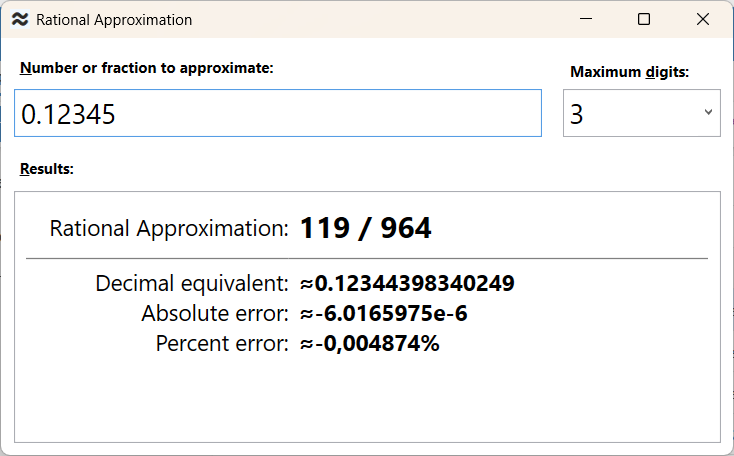
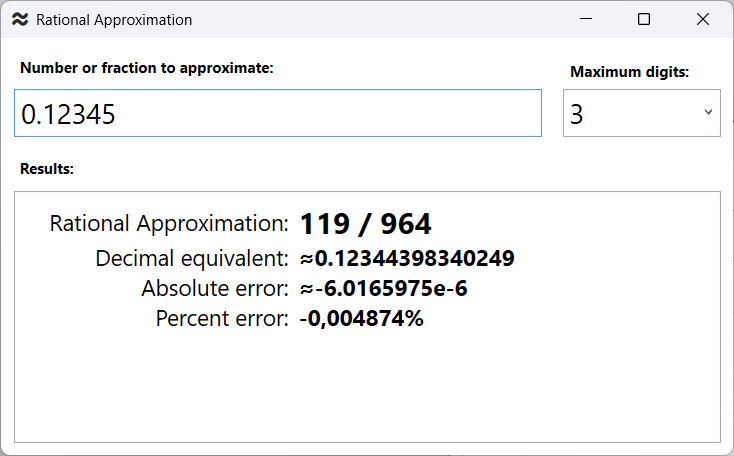
Review.

diff --git a/RationalApproximation/RationalApproximation/MainWindow.xaml b/RationalApproximation/RationalApproximation/MainWindow.xaml
@@ -5,7 +5,7 @@
         xmlns:mc="http://schemas.openxmlformats.org/markup-compatibility/2006"
         xmlns:local="clr-namespace:RationalApproximation"
         mc:Ignorable="d"
-        Title="Rational Approximation" Width="600" Height="371"  
+        Title="Rational Approximation" Width="600" Height="371" d:Width="600" d:Height="371"    
         SourceInitialized="Window_SourceInitialized"
         Loaded="Window_Loaded" 
         Closing="Window_Closing" Icon="/RationalApproximation.ico" 
@@ -13,7 +13,7 @@
     <Grid>
 
         <Label VerticalAlignment="Top" Margin="10,10,0,0" Content="_Number or fraction to approximate:" Target="{Binding ElementName=textBoxInput}" FontWeight="Bold" HorizontalAlignment="Left" />
-        <TextBox x:Name="textBoxInput" VerticalAlignment="Top" Margin="10,41,153,0" Text="" TextChanged="textBoxInput_TextChanged" FontSize="22" Padding="3 3" d:Text="12345" VerticalContentAlignment="Center" Height="38" />
+        <TextBox x:Name="textBoxInput" VerticalAlignment="Top" Margin="10,41,153,0" TextChanged="textBoxInput_TextChanged" SelectionChanged="textBoxInput_SelectionChanged" FontSize="22" Padding="3 3" d:Text="12345" VerticalContentAlignment="Center" Height="38" />
 
         <Label VerticalAlignment="Top" Margin="0,13,30,0" Content="Maximum _digits:" Target="{Binding ElementName=comboBoxDigits}" FontWeight="Bold" HorizontalAlignment="Right" />
         <ComboBox x:Name="comboBoxDigits" IsEditable="True" VerticalAlignment="Top" Margin="0,41,10,0" HorizontalAlignment="Right" Width="126" FontSize="22"
@@ -31,7 +31,8 @@
         <Label VerticalAlignment="Top" Margin="10,91,0,0" Content="_Results:" Target="{Binding ElementName=richTextBoxResult}" FontWeight="Bold" HorizontalAlignment="Left" />
 
         <Grid Margin="10,122,10,10" >
-            <RichTextBox x:Name="richTextBoxNote" ScrollViewer.VerticalScrollBarVisibility="Auto" ScrollViewer.HorizontalScrollBarVisibility="Auto" FontSize="14" d:Visibility="Hidden">
+            <RichTextBox x:Name="richTextBoxNote" ScrollViewer.VerticalScrollBarVisibility="Auto" ScrollViewer.HorizontalScrollBarVisibility="Auto" FontSize="14"
+                         d:Visibility="Hidden">
                 <FlowDocument>
                     <Paragraph Padding="2 18">
                         <Run Text="The results will be displayed here." FontStyle="Italic"/>
@@ -41,16 +42,19 @@
 
             <RichTextBox x:Name="richTextBoxTypicalError" ScrollViewer.VerticalScrollBarVisibility="Auto" ScrollViewer.HorizontalScrollBarVisibility="Auto" 
                          FontSize="14" Padding="2 10"
+                         Background="{DynamicResource {x:Static SystemColors.InfoBrushKey}}" Foreground="{DynamicResource {x:Static SystemColors.InfoTextBrushKey}}"
                          d:Visibility="Hidden">
                 <FlowDocument>
                     <Paragraph>
-                        <Run Text="The entered number is invalid."/>
+                        <Run FontWeight="Bold" Text="⚠ The entered number is invalid."/>
                     </Paragraph>
                     <Paragraph>
-                        <Run Text="Please enter a fraction or decimal number, for example:"/>
+                        <Run Text="Please enter a decimal number or fraction. For example:"/>
                     </Paragraph>
                     <Paragraph Margin="14 0" FontWeight="Bold">
                         <Run Text="0.1234"/>
+                        <LineBreak/>
+                        <Run Text="0.12(34)"/>
                         <LineBreak/>
                         <Run Text="-12.345"/>
                         <LineBreak/>
@@ -64,15 +68,22 @@
                 </FlowDocument>
             </RichTextBox>
 
-            <RichTextBox x:Name="richTextBoxError" ScrollViewer.VerticalScrollBarVisibility="Auto" ScrollViewer.HorizontalScrollBarVisibility="Auto" d:Visibility="Hidden">
+            <RichTextBox x:Name="richTextBoxError" ScrollViewer.VerticalScrollBarVisibility="Auto" ScrollViewer.HorizontalScrollBarVisibility="Auto" 
+                         Background="{DynamicResource {x:Static SystemColors.InfoBrushKey}}" Foreground="{DynamicResource {x:Static SystemColors.InfoTextBrushKey}}"
+                         d:Visibility="Hidden">
                 <FlowDocument>
+                    <Paragraph Padding="2 14 2 0" FontSize="14" >
+                        <Run Text="⚠" FontSize="22" BaselineAlignment="Center"/>
+                        <Run Text="ERROR" FontWeight="Bold" BaselineAlignment="Center"/>
+                    </Paragraph>
                     <Paragraph Padding="2 18" FontSize="14" >
-                        <Run x:Name="runError" Text="Error"/>
+                        <Run x:Name="runError" d:Text="Error"/>
                     </Paragraph>
                 </FlowDocument>
             </RichTextBox>
 
-            <RichTextBox x:Name="richTextBoxResult" ScrollViewer.VerticalScrollBarVisibility="Auto" ScrollViewer.HorizontalScrollBarVisibility="Auto" d:Visibility="Visible" IsReadOnlyCaretVisible="True" IsReadOnly="True">
+            <RichTextBox x:Name="richTextBoxResult" ScrollViewer.VerticalScrollBarVisibility="Auto" ScrollViewer.HorizontalScrollBarVisibility="Auto" 
+                         IsReadOnlyCaretVisible="True" IsReadOnly="True" d:Visibility="Visible" >
                 <FlowDocument x:Name="flowDocument">
                     <Section FontSize="18" Padding="0 8 0 0">
                         <Table BorderBrush="Gray" BorderThickness="0" CellSpacing="0" Margin="4 0">
@@ -82,10 +93,10 @@
                             </Table.Columns>
                             <TableRowGroup>
                                 <TableRow>
-                                    <TableCell BorderBrush="Gray" BorderThickness="0 0 0 1" Padding="0 8 0 10">
+                                    <TableCell Padding="0 4 0 0">
                                         <Paragraph TextAlignment="Right">Rational Approximation:</Paragraph>
                                     </TableCell>
-                                    <TableCell BorderBrush="Gray" BorderThickness="0 0 0 1" Padding="8 3 0 10">
+                                    <TableCell Padding="8 0 0 0">
                                         <Paragraph TextAlignment="Left" >
                                             <Run x:Name="runResultRationalApproximation" FontSize="24" FontWeight="Bold" d:Text="12345/67890"/>
                                             <Run x:Name="runResultRationalApproximationNote" FontSize="18" FontStyle="Italic" d:Text="(underflow)"/>
@@ -95,12 +106,12 @@
                             </TableRowGroup>
                             <TableRowGroup>
                                 <TableRow>
-                                    <TableCell TextAlignment="Right" Padding="0 6 0 0" >
+                                    <TableCell TextAlignment="Right" >
                                         <Paragraph >
                                             Decimal equivalent:
                                         </Paragraph>
                                     </TableCell>
-                                    <TableCell Padding="8 6 0 0">
+                                    <TableCell Padding="8 0 0 0">
                                         <Paragraph >
                                             <Run x:Name="runResultFloatingPointForm" FontWeight="Bold" d:Text="0.1234567"/>
                                         </Paragraph>
@@ -140,7 +151,7 @@
                         <Section x:Name="sectionAlternativeParent" FontSize="14">
                             <Section x:Name="sectionAlternative">
                                 <Paragraph Padding="4 8 0 6" Margin="0 0">
-                                    <Run Text="The alternative that includes an exponent:"/>
+                                    <Run Text="The approximation that includes an exponent:"/>
                                 </Paragraph>
                                 <Table BorderBrush="LightGray" BorderThickness="0" CellSpacing="0" Margin="4 0">
                                     <Table.Columns>
@@ -149,12 +160,12 @@
                                     </Table.Columns>
                                     <TableRowGroup>
                                         <TableRow>
-                                            <TableCell BorderBrush="Gray" BorderThickness="0 0 0 1" Padding="0 4">
+                                            <TableCell Padding="0 3 0 0">
                                                 <Paragraph TextAlignment="Right">Approximation:</Paragraph>
                                             </TableCell>
-                                            <TableCell BorderBrush="Gray" BorderThickness="0 0 0 1" Padding="4 4 0 4">
+                                            <TableCell Padding="4 2 0 0">
                                                 <Paragraph TextAlignment="Left" >
-                                                    <Run x:Name="runResultRationalApproximation2" FontSize="14" FontWeight="Bold" d:Text="12345/67890"/>
+                                                    <Run x:Name="runResultRationalApproximation2" FontSize="16" FontWeight="Bold" d:Text="12345/67890"/>
                                                     <Run x:Name="runResultRationalApproximationNote2" FontSize="14" FontStyle="Italic" d:Text="(underflow)"/>
                                                 </Paragraph>
                                             </TableCell>
@@ -162,12 +173,12 @@
                                     </TableRowGroup>
                                     <TableRowGroup>
                                         <TableRow>
-                                            <TableCell TextAlignment="Right" Padding="0 4 0 0" >
+                                            <TableCell TextAlignment="Right" >
                                                 <Paragraph >
                                                     Decimal equivalent:
                                                 </Paragraph>
                                             </TableCell>
-                                            <TableCell Padding="4 4 0 4">
+                                            <TableCell Padding="4 0 0 0">
                                                 <Paragraph >
                                                     <Run x:Name="runResultFloatingPointForm2" FontWeight="Bold" d:Text="0.1234567"/>
                                                 </Paragraph>

diff --git a/RationalApproximation/RationalApproximation/MainWindow.xaml.cs b/RationalApproximation/RationalApproximation/MainWindow.xaml.cs
@@ -28,7 +28,7 @@ namespace RationalApproximation
         const int ACCEPTABLE_PERCENT_ERROR = 10;
         readonly TimeSpan DELAY_BEFORE_CALCULATION = TimeSpan.FromMilliseconds( 333 );
         readonly TimeSpan DELAY_BEFORE_PROGRESS = TimeSpan.FromMilliseconds( 333 );
-        readonly TimeSpan MIN_DURATION_PROGRESS = TimeSpan.FromMilliseconds( 333 );
+        readonly TimeSpan MIN_DURATION_PROGRESS = TimeSpan.FromMilliseconds( 444 );
 
         bool mLoaded = false;
         bool mIsRestoreError = false;
@@ -108,6 +108,13 @@ namespace RationalApproximation
         }
 
         private void textBoxInput_TextChanged( object sender, TextChangedEventArgs e )
+        {
+            if( !mLoaded ) return;
+
+            RestartCalculationTimer( );
+        }
+
+        private void textBoxInput_SelectionChanged( object sender, RoutedEventArgs e )
         {
             if( !mLoaded ) return;
 
@@ -214,8 +221,7 @@ namespace RationalApproximation
                 string error_text = $"Something went wrong.\r\n\r\n{exc.Message}";
                 if( Debugger.IsAttached ) error_text = $"{error_text}\r\n{exc.StackTrace}";
 
-                runError.Text = error_text;
-                ShowOneRichTextBox( richTextBoxError );
+                ShowError( error_text );
                 HideProgress( );
             }
         }
@@ -311,8 +317,7 @@ namespace RationalApproximation
 
                 if( denominator.IsZero )
                 {
-                    runError.Text = "Denominator cannot be zero.";
-                    ShowOneRichTextBox( richTextBoxError );
+                    ShowError( "Denominator cannot be zero." );
                     HideProgress( );
 
                     return null;
@@ -345,8 +350,7 @@ namespace RationalApproximation
 
             if( !int.TryParse( digits_as_string, out int digits ) || digits <= 0 || digits > MAX_MAXDIGITS )
             {
-                runError.Text = $"Please enter a valid number of digits between 1 and {MAX_MAXDIGITS}.";
-                ShowOneRichTextBox( richTextBoxError );
+                ShowError( $"Please enter a valid number of digits between 1 and {MAX_MAXDIGITS}." );
                 HideProgress( );
 
                 return null;
@@ -409,8 +413,7 @@ namespace RationalApproximation
 
                 Dispatcher.BeginInvoke( ( ) =>
                 {
-                    runError.Text = error_text;
-                    ShowOneRichTextBox( richTextBoxError );
+                    ShowError( error_text );
                     HideProgress( );
                 } );
             }
@@ -506,10 +509,12 @@ namespace RationalApproximation
                 if( !e.IsZero ) fraction_as_string = $"{fraction_as_string}e{( e >= 0 ? "+" : "" )}{e:D}";
                 if( !d.IsOne ) fraction_as_string = $"{fraction_as_string} / {d:D}";
 
-                floating_point_form = approximatedFraction.ToFloatString( cnc, 15 );
+                Fraction approximated_fraction_nonApprox = approximatedFraction.AsNonApprox( );
+
+                floating_point_form = approximated_fraction_nonApprox.ToFloatString( cnc, 15 );
 
                 CalculationContext ctx = new( cnc, 33 );
-                Fraction absolute_error = Fraction.Sub( approximatedFraction, initialFraction, ctx );
+                Fraction absolute_error = Fraction.Sub( approximated_fraction_nonApprox, initialFraction, ctx );
                 absolute_error_as_string = absolute_error.ToFloatString( cnc, 8 );
 
                 if( initialFraction.IsZero )
@@ -526,7 +531,7 @@ namespace RationalApproximation
                     if( percent_error_abs.CompareTo( cnc, new Fraction( ACCEPTABLE_PERCENT_ERROR ) ) > 0 )
                     {
                         remarks = $"{remarks}The error is too large. Not enough digits.\r\n";
-                        note = approximatedFraction.IsZero ? "(underflow)" : "(overflow)";
+                        note = approximated_fraction_nonApprox.IsZero ? "(underflow)" : "(overflow)";
                     }
                 }
 
@@ -539,6 +544,23 @@ namespace RationalApproximation
                         percent_error_as_string,
                         remarks
                     );
+            }
+        }
+
+        void ShowError( string errorText )
+        {
+            if( !Dispatcher.CheckAccess( ) )
+            {
+                Dispatcher.BeginInvoke( ( ) =>
+                {
+                    ShowError( errorText );
+                } );
+            }
+            else
+            {
+                runError.Text = errorText;
+                ShowOneRichTextBox( richTextBoxError );
+                HideProgress( );
             }
         }
 
@@ -625,6 +647,9 @@ namespace RationalApproximation
             case ProgressStatusEnum.DelayToHide:
                 labelPleaseWait.Visibility = Visibility.Hidden;
                 mProgressShownTime = DateTime.MinValue;
+                break;
+            case ProgressStatusEnum.None:
+                //
                 break;
             default:
                 Debug.Assert( false );
